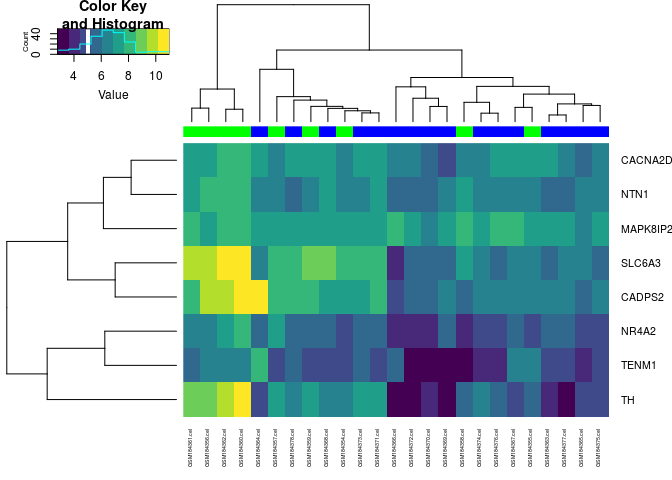
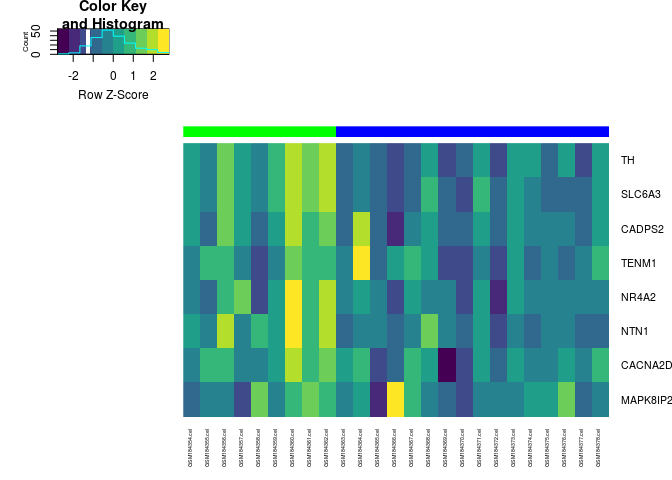
plot update, overwrites shreejoy's edits

diff --git a/README.md b/README.md
@@ -36,14 +36,14 @@ In this document additional packages are used that are not package dependencies
 Usage
 =====
 
-Cell type-specific marker genes
+Marker genes
 ------------
 
-A list of marker genes specific to or enriched in a cell type is required in order to estimate cell type profiles. In this package, a copy of mouse brain cell type-specific markers from [neuroExpressoAnalysis](https://github.com/oganm/neuroExpressoAnalysis), the package that summarizes the entire analysis performed in Mancarci et al. 2017 is included (`mouseMarkerGenes`). If an different marker gene set is needed, steps outlined below can be followed to create one from a new dataset.
+A marker gene list is needed in order to estimate cell type profiles. In this package, a copy of mouse brain cell type markers from [neuroExpressoAnalysis](https://github.com/oganm/neuroExpressoAnalysis), the package that summarizes the entire analysis performed in Mancarci et al. 2017 is included (`mouseMarkerGenes`). If an different marker gene set is needed steps below can be followed to create one
 
 ### Sample data for marker gene selection
 
-This package includes a sample cell type-specific transcriptomic dataset representing expression profiles from multiple purified cell types aimed to demonstrate the minimal information required for the selection of marker genes.
+The package includes a sample cell type profile dataset aimed to demonstrate the minimal information required for selection of marker genes.
 
 `mgp_sampleProfilesMeta` includes the basic metadata required for the cell type specific expression dataset.
 
@@ -301,7 +301,7 @@ Marker gene profiles (MGP)
 
 ### Sample data for MGP estimation
 
-The package includes mouse brain cell type markers published in Mancarci et al. 2017 and gene expression data from substantia nigra samples from healthy donors and Parkinson's disease patients by [Lesnick et al. 2007](https://www.ncbi.nlm.nih.gov/geo/query/acc.cgi?acc=GSE7621). Lesnick et al. data available in this package is a subset of the whole expression matrix which only includes cell type markers from the midbrain to reduce the size of the package.
+The package includes mouse brain cell type markers published in Mancarci et al. 2017 and gene expression data from substantia nigra samples from healthy donors and Parkinson's disease patients by [Lesnick et al. 2007](https://www.ncbi.nlm.nih.gov/geo/query/acc.cgi?acc=GSE7621).
 
 Mouse marker genes is available in `mouseMarkerGenes` object as a nested list.
 
@@ -496,15 +496,23 @@ Based on these results we can say that there is indeed a significant difference 
 This difference can be also observed by looking at gene expression of markers
 
 ``` r
-estimations$usedMarkerExpression$Dopaminergic %>%
+estimations$usedMarkerExpression$Dopaminergic%>%
     as.matrix %>%
     gplots::heatmap.2(trace = 'none',
-                      scale='none',
+                      scale='row',Rowv = FALSE,Colv = FALSE,
                       col= viridis::viridis(10),cexRow = 1, cexCol = 0.5,
                       ColSideColors = estimations$groups$Dopaminergic %>% 
                           ogbox::toColor(palette = c('control' = 'green',
                                                      "parkinson's" = "blue")) %$% cols ,margins = c(5,5))
 ```
+
+    ## Warning in gplots::heatmap.2(., trace = "none", scale = "row", Rowv =
+    ## FALSE, : Discrepancy: Rowv is FALSE, while dendrogram is `both'. Omitting
+    ## row dendogram.
+
+    ## Warning in gplots::heatmap.2(., trace = "none", scale = "row", Rowv =
+    ## FALSE, : Discrepancy: Colv is FALSE, while dendrogram is `column'. Omitting
+    ## column dendogram.
 
 ![](README_files/figure-markdown_github-ascii_identifiers/unnamed-chunk-18-1.png)
 
